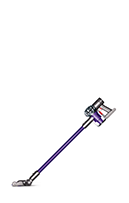
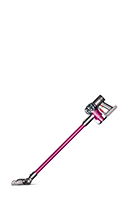
Cleaned up margins and modified the DC62 uptop SKU images to the right colorway.

Changed region(s): [[0.062, 0.4729, 0.9302, 0.9458]]

diff --git a/app/views/fans.html b/app/views/fans.html
@@ -76,7 +76,7 @@
                 <span class="arrow"></span>
             </div>
         </div>
-        <div class="am-05-black-nickel product">
+        <div class="am-05-iron-blue product">
             <div class="row gutter">
                 <div class="sixcol">
                     <div class="model"></div>

diff --git a/app/styles/_cordless.scss b/app/styles/_cordless.scss
@@ -92,7 +92,7 @@
             height:50px;
         }
         .product-image {
-            background-image:url(../images/cordless/DC62_IRNKSPU.jpg);
+            background-image:url(../images/cordless/DC62_IRNKSFU.jpg);
             width:465px;
             height:400px;
         }

diff --git a/app/styles/_handhelds.scss b/app/styles/_handhelds.scss
@@ -25,7 +25,7 @@
         }
         .dc-34-origin, .dc-34-animal {
             display:inline-block;
-            margin:10px 0 15px;
+            margin:8px 0 15px;
                 span {
                     height:202px;
                     width:168px;

diff --git a/app/styles/_fans.scss b/app/styles/_fans.scss
@@ -28,7 +28,7 @@
         .vacuums {
             div {
                 display: inline-block;
-                margin:15px 0;
+                margin:25px 0 15px;
                     span {
                         height:173px;
                     }
